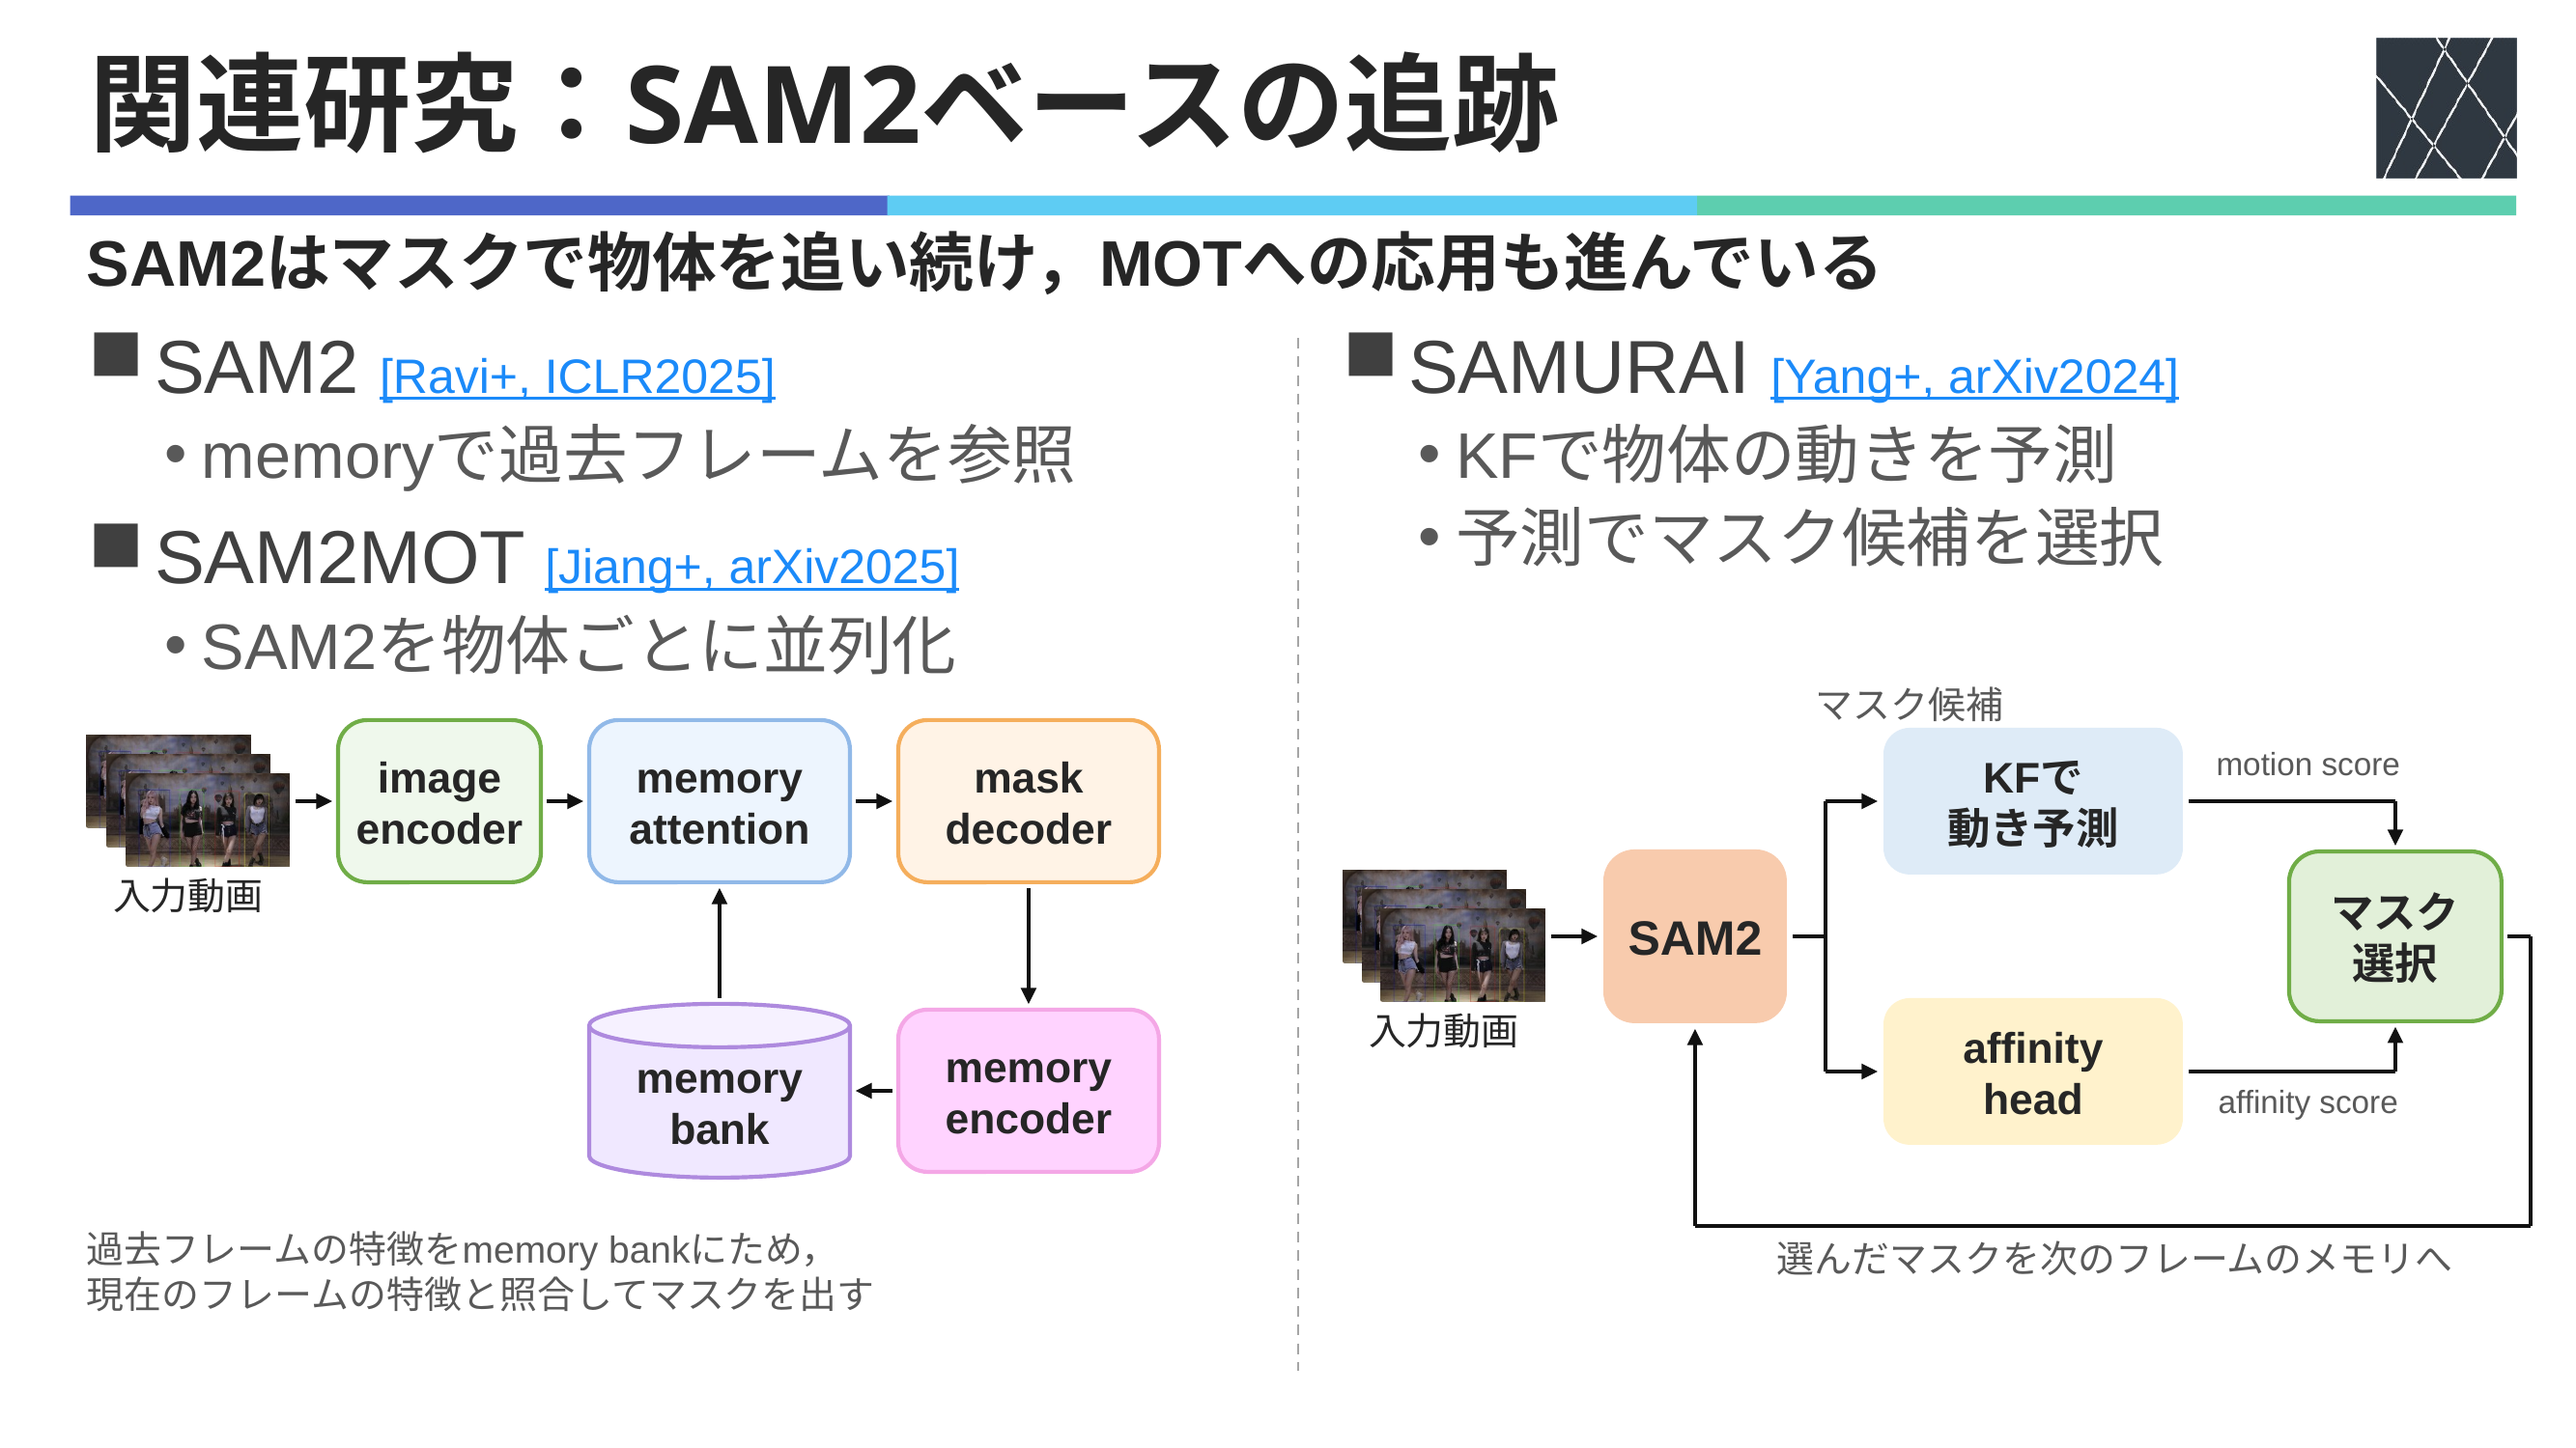
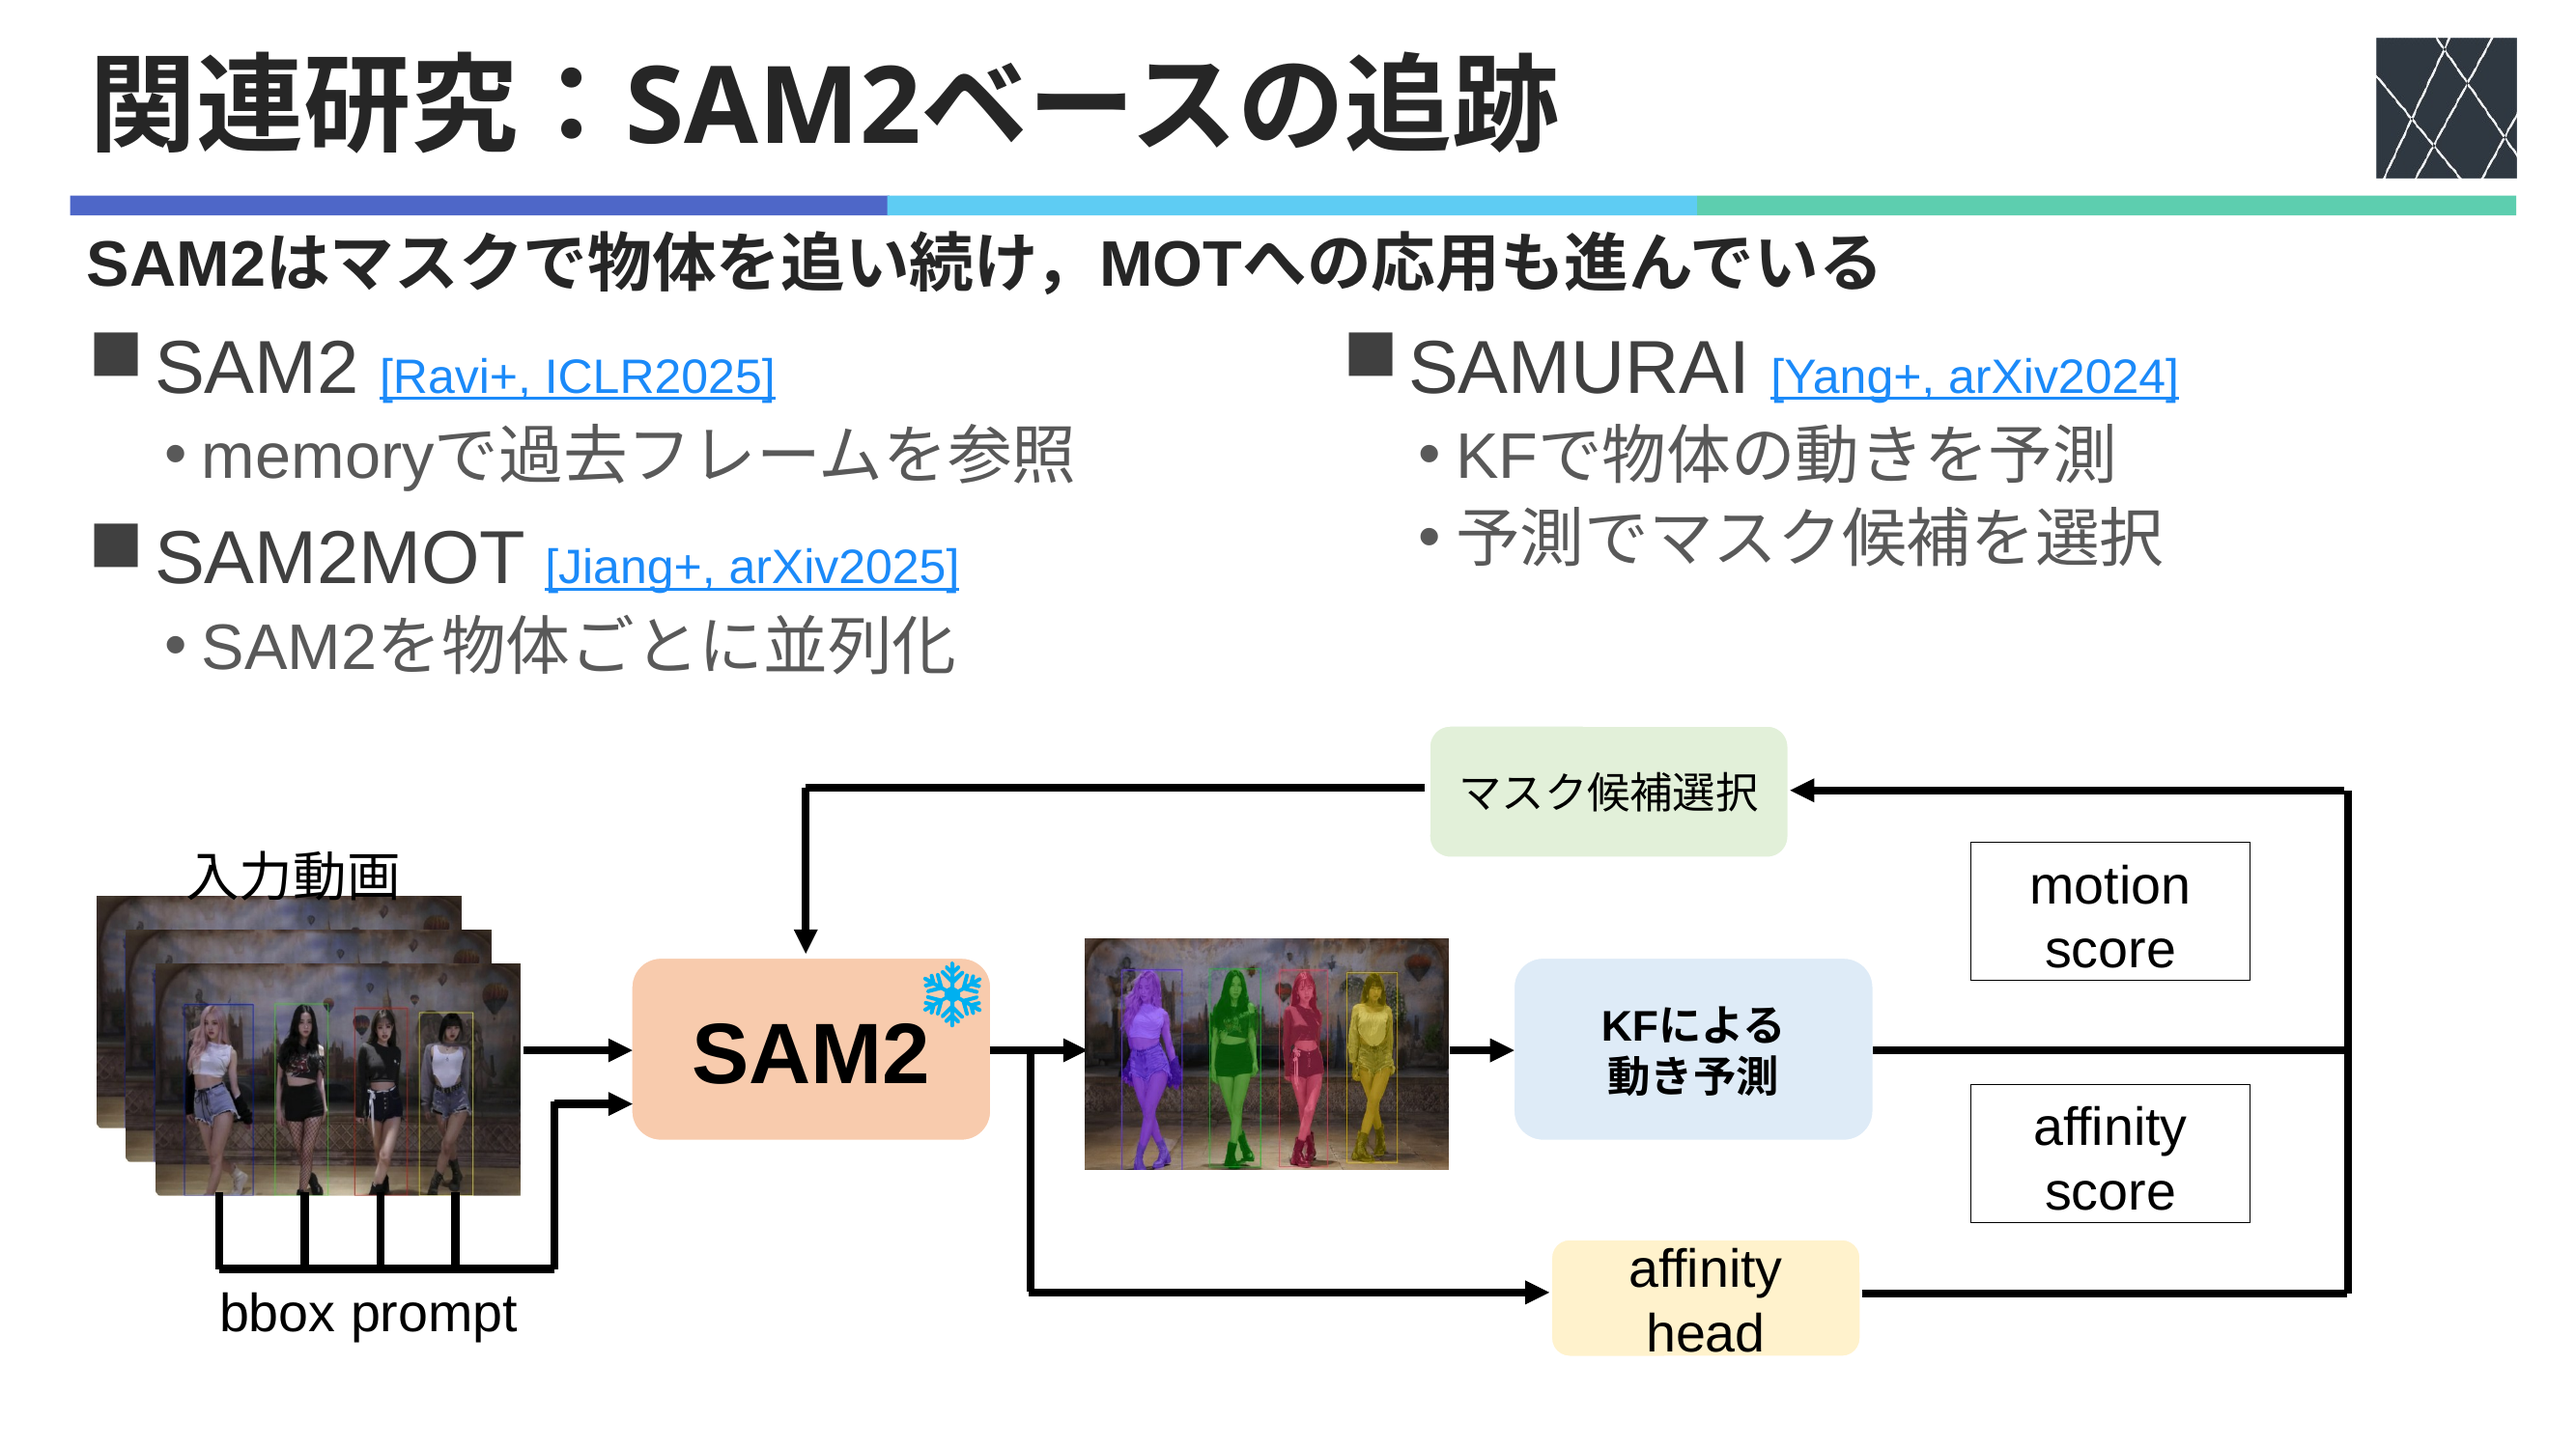
資料: 中間発表4枚目（関連研究）と8枚目（提案手法）を同じ構成図にそろえる
10/14 MTGの指摘 #3・#8・#11 の一部に対応。4枚目は「KFによる動き予測」、8枚目は「Mambaによる動き予測」とし、
8枚目は ID 1〜4 のマスクを上下に並べた。重ねた形の旧図も差し替え用に残す。ID別マスク画像と生成スクリプトを追加。

Changed region(s): [[0.0311, 0.46, 0.9959, 0.9507]]

diff --git a/.research/lab/projects/sam2-mamba-motion-tracking/materials/figures/2026-10-15-samurai-per-id/make_per_id.py b/.research/lab/projects/sam2-mamba-motion-tracking/materials/figures/2026-10-15-samurai-per-id/make_per_id.py
@@ -1,0 +1,25 @@
+#!/usr/bin/env python3
+"""Split the SAM2 mask image of the SAMURAI figure (masks_all.png, 4 people) into per-ID images.
+Each mask_id{k}.png keeps the colors inside ID k's box and turns everything else into dim gray."""
+from pathlib import Path
+
+import cv2
+import numpy as np
+
+HERE = Path(__file__).parent
+BOXES = {1: (165, 120, 452, 936), 2: (570, 118, 814, 924), 3: (891, 120, 1122, 924), 4: (1203, 132, 1445, 908)}  # x1, y1, x2, y2
+
+
+def main():
+    img = cv2.imread(str(HERE / "masks_all.png"))
+    gray = cv2.cvtColor(cv2.cvtColor(img, cv2.COLOR_BGR2GRAY), cv2.COLOR_GRAY2BGR)
+    dim = (gray * 0.55 + 255 * 0.25).astype(np.uint8)
+    for k, (x1, y1, x2, y2) in BOXES.items():
+        out = dim.copy()
+        out[y1:y2, x1:x2] = img[y1:y2, x1:x2]
+        cv2.imwrite(str(HERE / f"mask_id{k}.png"), out)
+        print(k)
+
+
+if __name__ == "__main__":
+    main()

diff --git a/.research/lab/projects/sam2-mamba-motion-tracking/materials/figures/2026-10-13-midterm-diagrams/export_png.py b/.research/lab/projects/sam2-mamba-motion-tracking/materials/figures/2026-10-13-midterm-diagrams/export_png.py
@@ -22,9 +22,11 @@ NAMES = {  # slide title -> file name
     "関連研究：SAM2ベースの追跡": "02-related-work",
     "既存手法の整理：動き予測": "03-method-table",
     "研究の目的": "04-research-goal",
+    "提案手法": "08-proposed-method",
     "動き予測の2つの構成": "06-sliding-window-vs-state-carry",
     "Mambaを用いた動き予測": "07-motion-prediction",
     "（旧）bboxベースとマスクベースの追跡の合流": "05-old-bbox-mask-merge",
+    "（旧）提案手法：IDごとのマスクを重ねた図": "09-proposed-method-stacked",
 }
 
 

diff --git a/.research/lab/projects/sam2-mamba-motion-tracking/materials/2026-10-12-midterm-slide-restructure.md b/.research/lab/projects/sam2-mamba-motion-tracking/materials/2026-10-12-midterm-slide-restructure.md
@@ -111,6 +111,22 @@ tags: [presentation, midterm, restructure]
 
 - TBD / TBA の図を、左右に並べたまま時間を上から下へ流す形（t−1, t, t+1）に描き直した。TBDは「各時刻で独立に検出 → まとめて対応付け（association）」、TBAは「前フレームの結果を次の時刻へ渡し、前の位置の周辺を探す」。Transformer・queryの記述をやめた。[図の説明](figures/2026-10-15-mot-paradigm-timeline/manifest.md)
 
+## 2026-10-15 8枚目「提案手法」（10/14 MTGの指摘 #8・#11 の一部）
+
+- 4枚目（関連研究）の図はそのまま残す（ユーザー判断）。
+- 8枚目の図は、4枚目のSAMURAIの図（入力動画 → SAM2 → KF / affinity head → マスク選択 → メモリへ戻る）をコピーして1.25倍に拡大し、KFの箱を「Mambaで動き予測」（赤枠）に替えた（ユーザー指示: 4枚目の図から大きく離れない）。IDごとの部分（マスク候補 → Mamba / affinity head → マスク選択）を、ID 1（赤）・ID 2（青）・ID 3（緑）の3枚の重ねたパネルで囲み、「ID 1」のタブと「ID 2, 3, … も同じ処理」「IDごとの候補は SAM2 が出す」の注記を付けた。（一度作った3段の全体図は、4枚目から離れすぎるため取りやめた）
+- 本文を「SAMURAIの動き予測（KF）をMambaに置き換える」（28pt）、「対象（ID）ごとにMambaの状態を持ち，並列に次の位置を予測」「候補の選び方はSAMURAIと同じ（予測位置との一致とSAM2の信頼度）」（24pt）にした。11枚目（マスク候補選択）の内容は2つ目の行に入れた。
+- 16枚目（問題点）は、この図を使って「SAM2がIDごとの候補を間違えると、Mambaでは直せない」を示す予定。9枚目・11枚目を削除するかは未決定。
+
+## 2026-10-15 4枚目・8枚目を同じ構成図にそろえた
+
+- ユーザーの案に沿い、元スライドの「提案手法1」の図（input + bbox prompt → SAM2 → マスク → 動き予測 / affinity head → score → マスク候補選択 → SAM2）を4枚目と8枚目の土台にした。[説明](figures/2026-10-15-samurai-per-id/manifest.md)
+- 4枚目: SAM2の内部構造の図とこれまでのSAMURAIの簡略図を外し、「KFによる動き予測」版の図を大きく載せた（10/14 MTG #3 の「SAM2の内部図を外す」にも対応）。本文（SAM2 / SAM2MOT / SAMURAI の箇条書き）はそのまま。
+- 8枚目: 同じ図で「Mambaによる動き予測」（赤枠）にし、マスク画像を ID 1〜4 の重なりに分けて、IDごとの処理が見えるようにした。一度作った「3枚の重ねたパネル」の図は取りやめた。
+
+- 8枚目（同日の追加修正）: ユーザーの希望で、IDごとのマスクを重ねる形から**上下に並べる形**に変えた。ID 1〜4 の行ごとに「マスク → Mambaによる動き予測」を並べ、Mamba の出力を1本にまとめて motion score へ。図の上の赤字の注記は外し、列の見出し（IDごとのマスク / IDごとに並列）にした。
+- 重ねた形の図も、あとで戻せるように残した。本体では非表示スライド「（旧）提案手法：IDごとのマスクを重ねた図」（最後尾）、図だけのpptxでは同じ題のスライド（`png/09-proposed-method-stacked.png`）。
+
 ## 自作図のバックアップ
 
 自作の図（3・4・6・7枚目）は、[抜き出し版のpptx](figures/2026-10-13-midterm-diagrams/manifest.md)にも保存した。

diff --git a/.research/lab/projects/sam2-mamba-motion-tracking/materials/figures/2026-10-15-samurai-per-id/manifest.md b/.research/lab/projects/sam2-mamba-motion-tracking/materials/figures/2026-10-15-samurai-per-id/manifest.md
@@ -1,0 +1,13 @@
+# SAMURAI / 提案手法の構成図（4枚目・8枚目, 2026-10-15）
+
+元の中間発表スライド（`20261017_中間発表_油谷.pptx` の8枚目「提案手法1」の図）を土台に、4枚目と8枚目で同じ図を使う。数式のラベル（s ∈ ℝ^N）は10/14 MTGの指摘で外した。
+
+- 4枚目（関連研究）: 「KFによる動き予測」。KFは学習しないので炎の印を外した。マスク画像は4人まとめたもの（`masks_all.png`）。
+- 8枚目（提案手法）: ID 1〜4 の行を上下に並べ、各行で「ID ごとのマスク画像（`mask_id1〜4.png`、左上に ID タブ）→ Mambaによる動き予測（赤枠）」とした。Mamba の出力は1本にまとめて motion score へ。（最初は重ねた形で作り、ユーザーの希望で上下に並べる形に変更。）
+
+| ファイル | 中身 |
+|---|---|
+| `masks_all.png` | 元の図のマスク画像（4人を紫・緑・赤・黄で塗ったもの） |
+| `mask_id{k}.png` | ID k の枠の中だけ色を残し，ほかを薄い灰色にしたもの（k = 1〜4，左から） |
+
+- `make_per_id.py` で作り直せる（枠の座標は画像に描かれた枠から手で読んだ値）。

diff --git a/.research/lab/projects/sam2-mamba-motion-tracking/materials/figures/2026-10-13-midterm-diagrams/manifest.md b/.research/lab/projects/sam2-mamba-motion-tracking/materials/figures/2026-10-13-midterm-diagrams/manifest.md
@@ -34,6 +34,8 @@ SOFFICE=/path/to/soffice python export_png.py   # 既定: このフォルダのp
 | `png/05-old-bbox-mask-merge.png` | （旧）合流図 |
 | `png/06-sliding-window-vs-state-carry.png` | sliding window型とstate carry型 |
 | `png/07-motion-prediction.png` | Mambaを用いた動き予測（正常な場合の模式図） |
+| `png/08-proposed-method.png` | 提案手法（ID 1〜4 を上下に並べた図。本体で使う） |
+| `png/09-proposed-method-stacked.png` | （旧）提案手法：IDごとのマスクを重ねた図（差し替え用に残す） |
 
 - PNGはLibreOfficeで描いたもの。この環境にないフォントは置き換わる（テーマの「Noto Sans JP」→「Noto Sans CJK JP」）ため、PowerPointの表示と少しずれることがある。
 - 図を直したら、pptxと一緒にPNGも書き出し直す。
